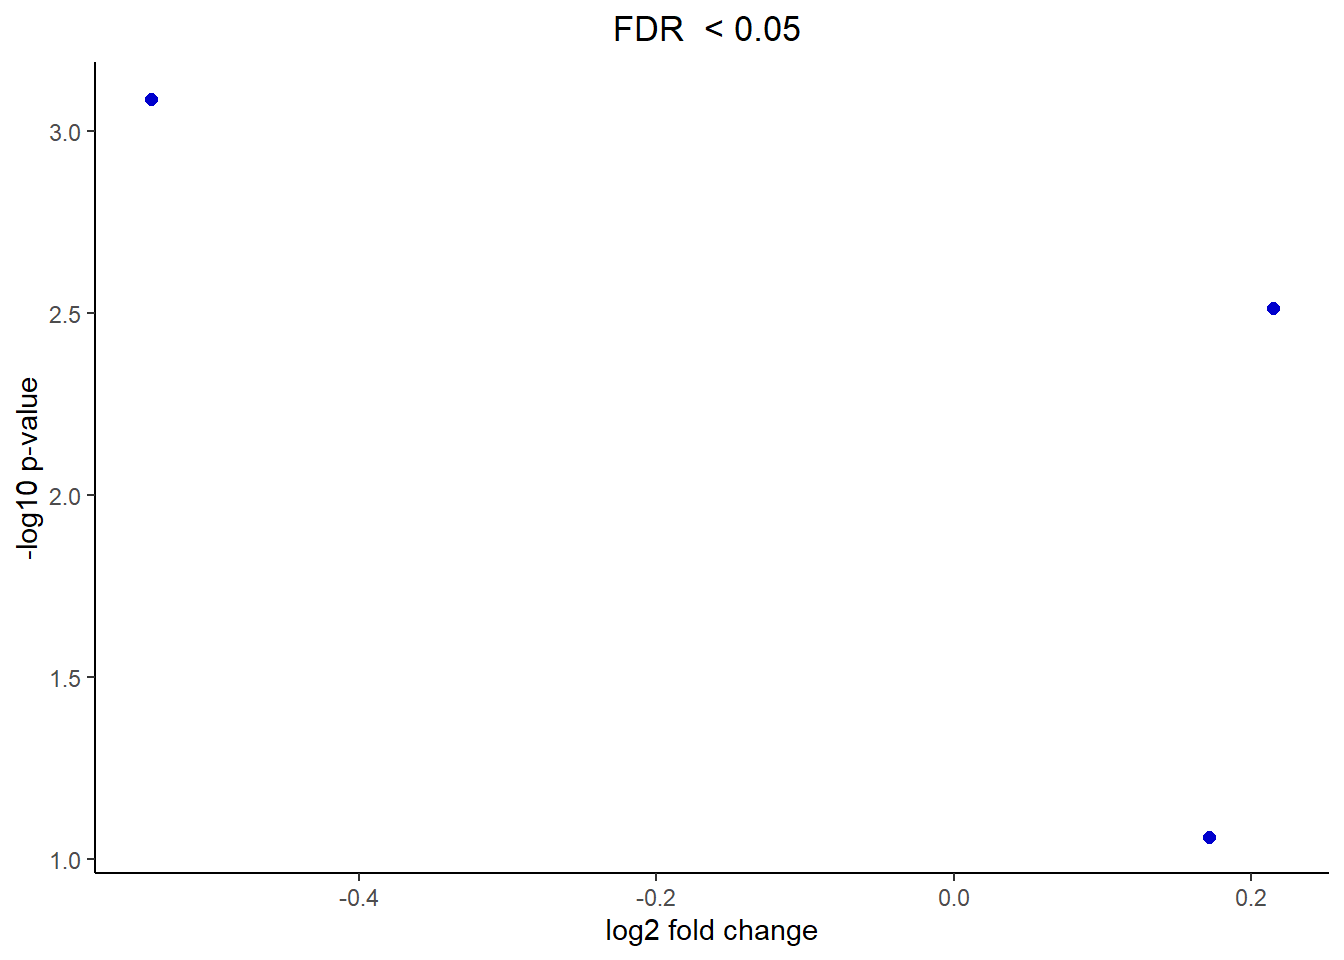
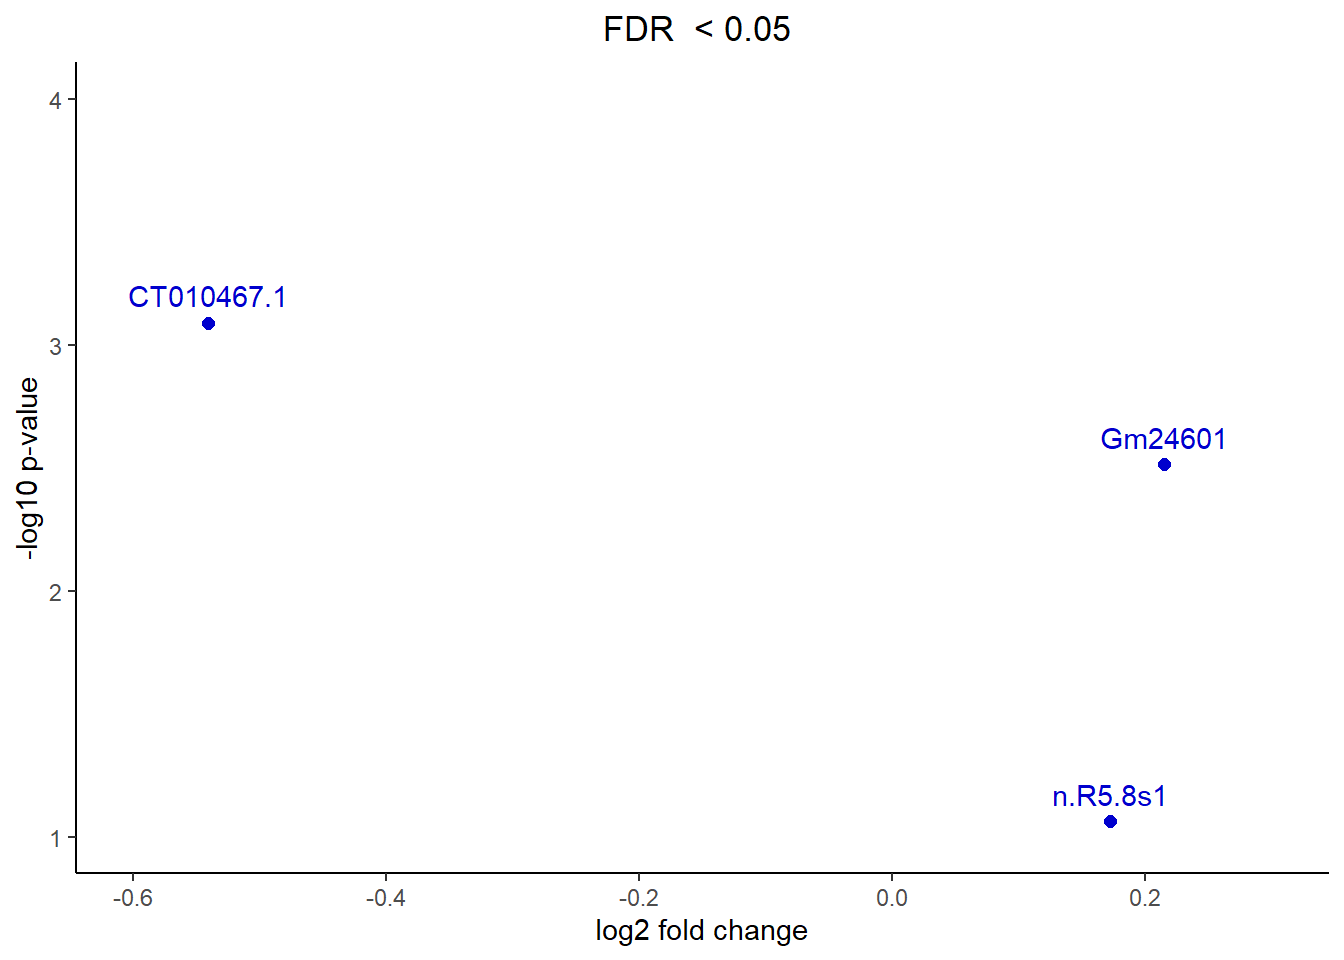
Build site.

diff --git a/docs/Report.html b/docs/Report.html
@@ -506,16 +506,16 @@ This reproducible <a href="http://rmarkdown.rstudio.com">R Markdown</a> analysis
 <div class="panel panel-default">
 <div class="panel-heading">
 <p class="panel-title">
-<a data-toggle="collapse" data-parent="#workflowr-checks" href="#strongRepositoryversionstrong5d21a86"> <span class="glyphicon glyphicon-ok text-success" aria-hidden="true"></span> <strong>Repository version:</strong> 5d21a86 </a>
+<a data-toggle="collapse" data-parent="#workflowr-checks" href="#strongRepositoryversionstrong7f545c4"> <span class="glyphicon glyphicon-ok text-success" aria-hidden="true"></span> <strong>Repository version:</strong> 7f545c4 </a>
 </p>
 </div>
-<div id="strongRepositoryversionstrong5d21a86" class="panel-collapse collapse">
+<div id="strongRepositoryversionstrong7f545c4" class="panel-collapse collapse">
 <div class="panel-body">
 <p>
 Great! You are using Git for version control. Tracking code development and connecting the code version to the results is critical for reproducibility.
 </p>
 <p>
-The results in this page were generated with repository version 5d21a86. See the <em>Past versions</em> tab to see a history of the changes made to the R Markdown and HTML files.
+The results in this page were generated with repository version 7f545c4. See the <em>Past versions</em> tab to see a history of the changes made to the R Markdown and HTML files.
 </p>
 <p>
 Note that you need to be careful to ensure that all relevant files for the analysis have been committed to Git prior to generating the results (you can use <code>wflow_publish</code> or <code>wflow_git_commit</code>). workflowr only checks the R Markdown file, but you know if there are other scripts or data files that it depends on. Below is the status of the Git repository when the results were generated:
@@ -559,6 +559,40 @@ Message
 </tr>
 </thead>
 <tbody>
+<tr>
+<td>
+Rmd
+</td>
+<td>
+7f545c4
+</td>
+<td>
+Dosoko
+</td>
+<td>
+2021-03-25
+</td>
+<td>
+added a new analysis file
+</td>
+</tr>
+<tr>
+<td>
+html
+</td>
+<td>
+334e024
+</td>
+<td>
+Dosoko
+</td>
+<td>
+2021-03-25
+</td>
+<td>
+Build site.
+</td>
+</tr>
 <tr>
 <td>
 Rmd
@@ -873,6 +907,7 @@ n.R5.8s1    0.1717594 18.06796  1.752960 0.0868361356 0.086836136 -4.8248902</co
 </div>
 <div id="volcano-plot" class="section level2">
 <h2>Volcano plot</h2>
+<p>With the Volcano plot the logarithmic fold change (x-axis) and the negative logarithmic p-value (y-axis) are visualized for each gene. The higher the y-axis value is the more significant is the difference of expressions between the samples. Additionally the foldchange expresses if the gene was upregulated (positive logFC) or downregulated (negative logFC).</p>
 <pre class="r"><code>##Highlight genes that have an absolute fold change &gt; 2 and FDR &lt; 0.05
 out_limma$threshold1 = as.factor(abs(out_limma$logFC) &gt; 2 &amp; out_limma$adj.P.Val &lt; 0.05)
 
@@ -880,8 +915,11 @@ cbPalette&lt;- c(&quot;mediumblue&quot;, &quot;firebrick1&quot;)
 
 volcano_oocyte = ggplot(data=out_limma, aes(x=logFC, y=-log10(P.Value), colour=threshold1)) +
   geom_point(size=2) +
+  geom_text(aes(label=row.names(out_limma)),hjust=0.5, vjust=-0.75)+
   xlab(&quot;log2 fold change&quot;) + ylab(&quot;-log10 p-value&quot;) + theme_classic() + theme(legend.position=&quot;none&quot;) + scale_color_manual (values=cbPalette) + 
-  ggtitle(&quot;FDR  &lt; 0.05 &quot;) + theme(plot.title = element_text(hjust=0.5))
+  ggtitle(&quot;FDR  &lt; 0.05 &quot;) + theme(plot.title = element_text(hjust=0.5))+
+  xlim(-0.6, 0.3)+
+  ylim(1, 4)
 
 volcano_oocyte</code></pre>
 <p><img src="figure/Report.Rmd/unnamed-chunk-16-1.png" width="672" style="display: block; margin: auto;" /></p>

diff --git a/docs/index.html b/docs/index.html
@@ -367,16 +367,16 @@ This reproducible <a href="http://rmarkdown.rstudio.com">R Markdown</a> analysis
 <div class="panel panel-default">
 <div class="panel-heading">
 <p class="panel-title">
-<a data-toggle="collapse" data-parent="#workflowr-checks" href="#strongRepositoryversionstrong5d21a86"> <span class="glyphicon glyphicon-ok text-success" aria-hidden="true"></span> <strong>Repository version:</strong> 5d21a86 </a>
+<a data-toggle="collapse" data-parent="#workflowr-checks" href="#strongRepositoryversionstrong7f545c4"> <span class="glyphicon glyphicon-ok text-success" aria-hidden="true"></span> <strong>Repository version:</strong> 7f545c4 </a>
 </p>
 </div>
-<div id="strongRepositoryversionstrong5d21a86" class="panel-collapse collapse">
+<div id="strongRepositoryversionstrong7f545c4" class="panel-collapse collapse">
 <div class="panel-body">
 <p>
 Great! You are using Git for version control. Tracking code development and connecting the code version to the results is critical for reproducibility.
 </p>
 <p>
-The results in this page were generated with repository version 5d21a86. See the <em>Past versions</em> tab to see a history of the changes made to the R Markdown and HTML files.
+The results in this page were generated with repository version 7f545c4. See the <em>Past versions</em> tab to see a history of the changes made to the R Markdown and HTML files.
 </p>
 <p>
 Note that you need to be careful to ensure that all relevant files for the analysis have been committed to Git prior to generating the results (you can use <code>wflow_publish</code> or <code>wflow_git_commit</code>). workflowr only checks the R Markdown file, but you know if there are other scripts or data files that it depends on. Below is the status of the Git repository when the results were generated:
@@ -420,6 +420,23 @@ Message
 </tr>
 </thead>
 <tbody>
+<tr>
+<td>
+html
+</td>
+<td>
+334e024
+</td>
+<td>
+Dosoko
+</td>
+<td>
+2021-03-25
+</td>
+<td>
+Build site.
+</td>
+</tr>
 <tr>
 <td>
 html
